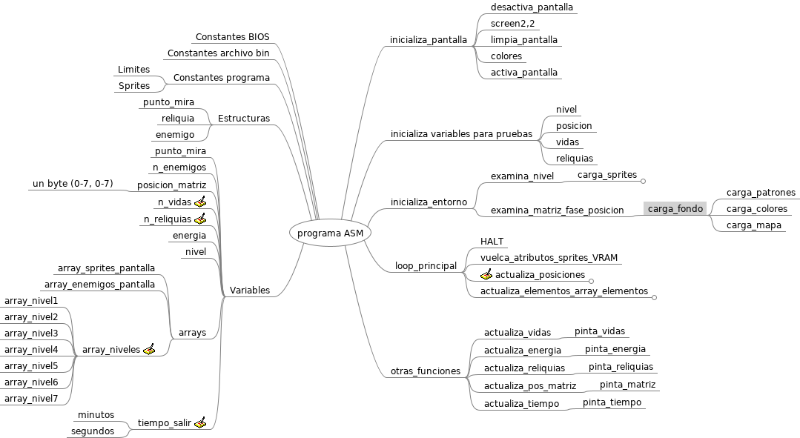
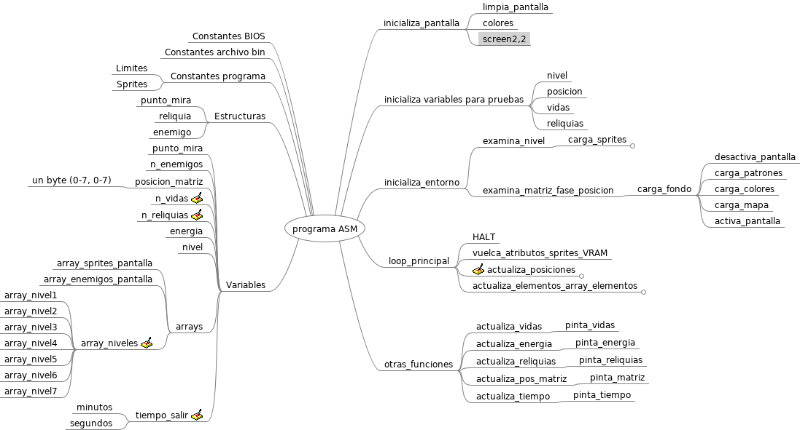
actualización análisis

diff --git a/doc/disenoprograma.mm b/doc/disenoprograma.mm
@@ -34,8 +34,7 @@
       1111 (vidas 0-8) y 0000 reliquas (0-8)
     </p>
   </body>
-</html>
-</richcontent>
+</html></richcontent>
 </node>
 <node CREATED="1622145631148" ID="ID_810795369" MODIFIED="1622912441371" TEXT="n_reliquias">
 <richcontent TYPE="NOTE"><html>
@@ -53,8 +52,7 @@
       1111 (vidas 0-8) y 0000 reliquas (0-8)
     </p>
   </body>
-</html>
-</richcontent>
+</html></richcontent>
 </node>
 <node CREATED="1622145751512" ID="ID_1911242454" MODIFIED="1622145755171" TEXT="energia"/>
 <node CREATED="1622488180299" ID="ID_1508061501" MODIFIED="1622488182804" TEXT="nivel"/>
@@ -92,8 +90,7 @@
       1 - es pantalla final?
     </p>
   </body>
-</html>
-</richcontent>
+</html></richcontent>
 <node CREATED="1622911829423" ID="ID_1886966464" MODIFIED="1622911842112" TEXT="array_nivel1"/>
 <node CREATED="1622911844095" ID="ID_364906659" MODIFIED="1622911846760" TEXT="array_nivel2"/>
 <node CREATED="1622911847673" ID="ID_1975537452" MODIFIED="1622911850650" TEXT="array_nivel3"/>
@@ -113,18 +110,15 @@
       En caso de conseguir matar al jefe hay que salir en un tiempo
     </p>
   </body>
-</html>
-</richcontent>
+</html></richcontent>
 <node CREATED="1622912768584" ID="ID_428752042" MODIFIED="1622912771963" TEXT="minutos"/>
 <node CREATED="1622912773210" ID="ID_31313294" MODIFIED="1622912776821" TEXT="segundos"/>
 </node>
 </node>
 <node CREATED="1622145781074" HGAP="19" ID="ID_359756947" MODIFIED="1622487985197" POSITION="right" TEXT="inicializa_pantalla" VSHIFT="-28">
-<node CREATED="1622145894271" ID="ID_1007433247" MODIFIED="1622145907985" TEXT="desactiva_pantalla"/>
-<node CREATED="1622145910407" ID="ID_961971324" MODIFIED="1622145914213" TEXT="screen2,2"/>
 <node CREATED="1622146803620" ID="ID_608256326" MODIFIED="1622146810549" TEXT="limpia_pantalla"/>
 <node CREATED="1622145918561" ID="ID_318152453" MODIFIED="1622145923392" TEXT="colores"/>
-<node CREATED="1622145951856" ID="ID_1790154559" MODIFIED="1622145960072" TEXT="activa_pantalla"/>
+<node CREATED="1622145910407" ID="ID_961971324" MODIFIED="1623262168059" TEXT="screen2,2"/>
 </node>
 <node CREATED="1622488445657" ID="ID_1010346842" MODIFIED="1622488458646" POSITION="right" TEXT="inicializa variables para pruebas">
 <node CREATED="1622488461050" ID="ID_82185990" MODIFIED="1622488464402" TEXT="nivel"/>
@@ -142,9 +136,11 @@
 </node>
 <node CREATED="1622488375255" ID="ID_618587182" MODIFIED="1622488418724" TEXT="examina_matriz_fase_posicion">
 <node CREATED="1622145924766" ID="ID_1593287003" MODIFIED="1622912976735" TEXT="carga_fondo">
+<node CREATED="1623262087949" ID="ID_1655529083" MODIFIED="1623262096223" TEXT="desactiva_pantalla"/>
 <node CREATED="1622146176211" ID="ID_940567344" MODIFIED="1622146198112" TEXT="carga_patrones"/>
 <node CREATED="1622146184890" ID="ID_1057578605" MODIFIED="1622146190423" TEXT="carga_colores"/>
 <node CREATED="1622146201158" ID="ID_811163035" MODIFIED="1622146209176" TEXT="carga_mapa"/>
+<node CREATED="1623262077962" ID="ID_626178406" MODIFIED="1623262084674" TEXT="activa_pantalla"/>
 </node>
 </node>
 </node>
